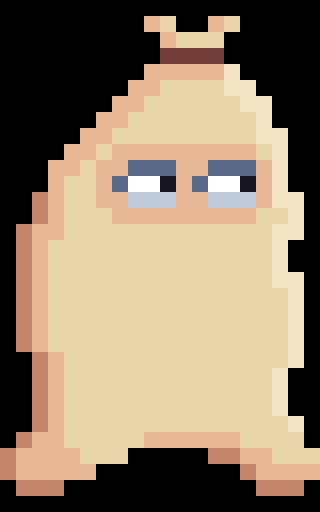
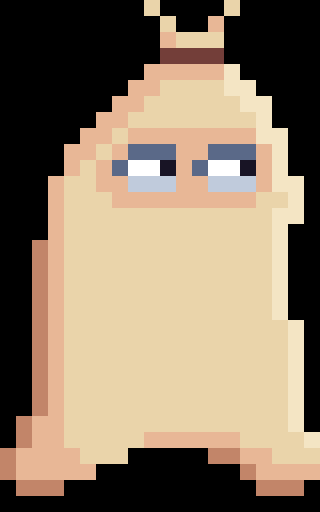
player animation changes (a jumping animation and a test walking animation)

diff --git a/player.py b/player.py
@@ -12,6 +12,8 @@ tile_size = 32
 player_size_y = 32
 player_size_x = 20
 
+jump_offset_amount = 5
+
 
 # hey particles coming off the player ----------------------------------------------------------------------------------
 class HeyParticle:
@@ -173,6 +175,12 @@ class Player:
         self.sack_lookf = img_loader('data/images/sack_side_look.PNG', player_size_x, player_size_y)
         self.sack_jumpf = img_loader('data/images/sack_jumping.PNG', player_size_x, player_size_y)
         self.sack_jumpb = pygame.transform.flip(self.sack_jumpf, True, False)
+        self.sack_jump1f = img_loader('data/images/sack_jumping1.PNG', tile_size, tile_size)
+        self.sack_jump2f = img_loader('data/images/sack_jumping2.PNG', tile_size, tile_size)
+        self.sack_jump3f = img_loader('data/images/sack_jumping3.PNG', tile_size, tile_size)
+        self.sack_jump1b = pygame.transform.flip(self.sack_jump1f, True, False)
+        self.sack_jump2b = pygame.transform.flip(self.sack_jump2f, True, False)
+        self.sack_jump3b = pygame.transform.flip(self.sack_jump3f, True, False)
         self.sack_blinkb = pygame.transform.flip(self.sack_blinkf, True, False)
         self.sack_lookb = pygame.transform.flip(self.sack_lookf, True, False)
         self.sack_img = self.sack0f
@@ -185,6 +193,7 @@ class Player:
         self.sack_height = self.sack0f.get_height()
         self.vel_y = 0
         self.jumped = False
+        self.sack_offset = 0
 
         # player sprite death animation frames -------------------------------------------------------------------------
         self.dead1 = img_loader('data/images/dead_sack1.PNG', tile_size, tile_size)
@@ -503,6 +512,7 @@ class Player:
                 self.jumped = False
                 if not self.airborn:
                     # standing animation
+                    self.sack_offset = 0
                     if self.direction == 1:
                         self.blink_counter += 1*fps_adjust
                         if self.blink_counter > 150:
@@ -531,11 +541,25 @@ class Player:
                             self.sack_img = self.sack_blinkb
                         else:
                             self.sack_img = self.sack0b
-                else:
-                    if self.direction == 1:
-                        self.sack_img = self.sack_jumpf
+
+            if self.airborn:
+                if self.direction == 1:
+                    self.sack_offset = jump_offset_amount - 3
+                    if self.vel_y < -5:
+                        self.sack_img = self.sack_jump1f
+                    elif -5 < self.vel_y < 5:
+                        self.sack_img = self.sack_jump2f
                     else:
-                        self.sack_img = self.sack_jumpb
+                        self.sack_img = self.sack_jump3f
+                else:
+                    self.sack_offset = jump_offset_amount + 4
+                    if self.vel_y < -5:
+                        self.sack_img = self.sack_jump1b
+                    elif -5 < self.vel_y < 5:
+                        self.sack_img = self.sack_jump2b
+                    else:
+                        self.sack_img = self.sack_jump3b
+
             # walking left
             if key[pygame.K_LEFT] or key[pygame.K_a]:
                 self.player_moved = True
@@ -550,7 +574,7 @@ class Player:
                 self.direction = 0
                 self.teleport_count = 0
                 if self.animate_walk:
-                    self.walk_counter += 0.9*fps_adjust
+                    self.walk_counter += 0.7*fps_adjust
                     if self.walk_counter > 20:
                         self.walk_counter = 0
                     elif self.walk_counter > 15:
@@ -575,7 +599,7 @@ class Player:
                 self.teleport_count = 0
                 self.direction = 1
                 if self.animate_walk:
-                    self.walk_counter += 0.9*fps_adjust
+                    self.walk_counter += 0.7*fps_adjust
                     if self.walk_counter > 20:
                         self.walk_counter = 0
                     elif self.walk_counter > 15:
@@ -800,7 +824,7 @@ class Player:
 
         # drawing player onto the screen
         if self.blit_plr:
-            screen.blit(self.sack_img, (self.sack_rect.x, self.sack_rect.y))
+            screen.blit(self.sack_img, (self.sack_rect.x - self.sack_offset, self.sack_rect.y))
 
         # refilling health if regeneration card used
         if self.regeneration:

diff --git a/main.py b/main.py
@@ -340,6 +340,8 @@ while run:
     if play_paper_sound:
         sounds['paper_crumbling'].play()
 
+    play_music = False
+
     if play_music:
         pygame.mixer.music.play(-1, 0.0, 300)
         play_music = False
